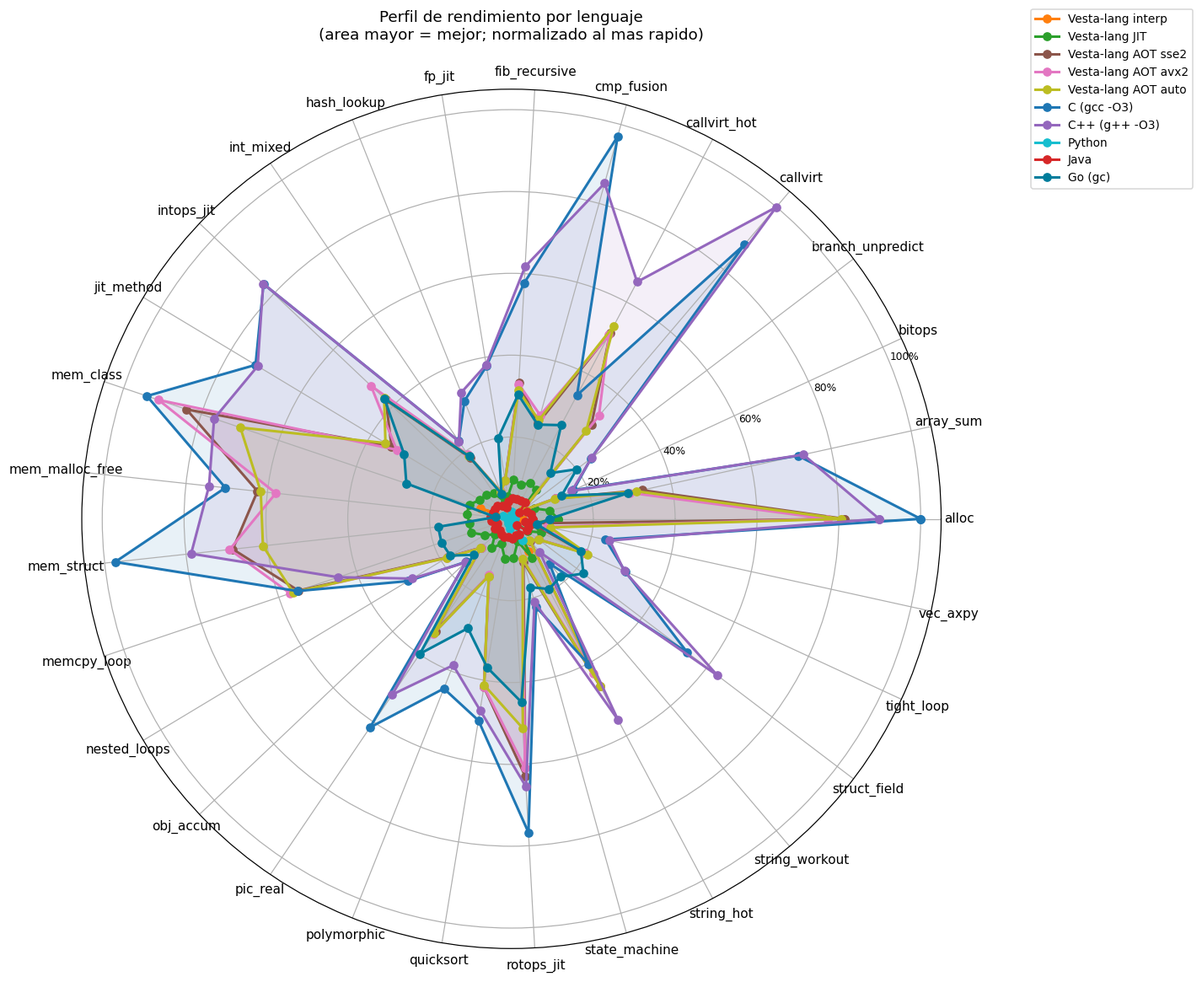
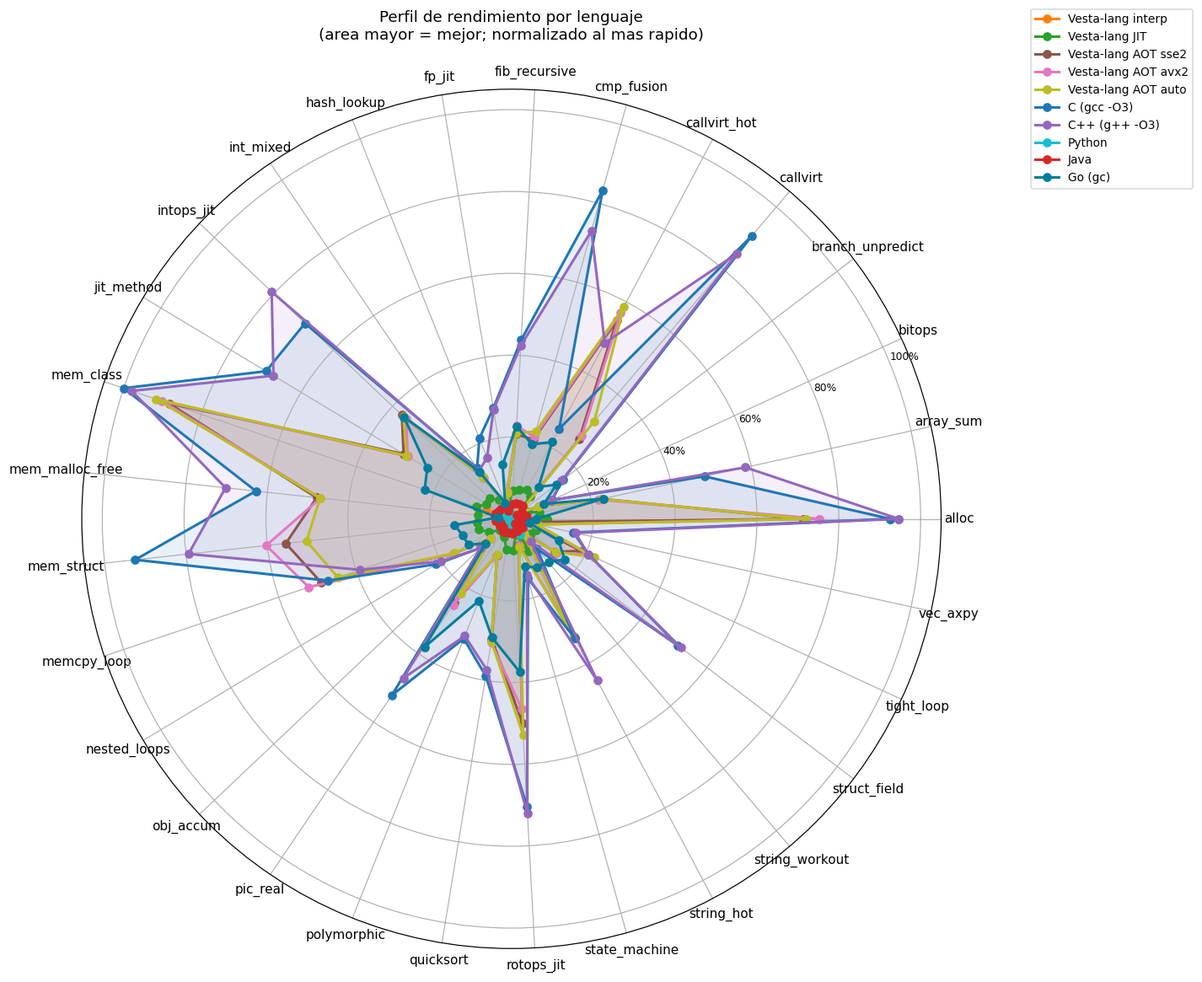
jit: auto-PGO gated (VESTA_JIT_PGO) VM-independiente + coste if-conversion multi-ISA
El JIT re-decide la if-conversion de las funciones calientes con el perfil de
branches MEDIDO en runtime, manteniendose VM-INDEPENDIENTE: la re-optimizacion
(if_conversion + select_simplify) solo lee ir::g_branch_profile (datos planos);
el unico acceso a la VM es un bridge del lado runtime (profile_apply_branch_lines)
que mapea PC->linea con el debug_info y alimenta ese almacen.

- ir::set_branch_profile_entry: punto de ingesta desacoplado (linea -> P), mismo
  almacen que load_branch_profile/predict_profile.
- runtime::profile_apply_branch_lines: bridge runtime->IR (agrega taken/nt por
  linea, P=min/total), sin round-trip a archivo.
- auto_jit: gate jit_pgo_enabled() (opt-in, default OFF por el coste del profiler
  D.6 en tier-0) + bloque de re-if-conversion sobre un clon en maybe_compile_method.
- main: VESTA_JIT_PGO=1 auto-activa el profiler (sin dump) desde el arranque para
  que tier-0 recolecte antes del tier-up.
- compiler_project: set_target_isa desde el arch del TARGET AOT antes de ir_optimize
  -> la decision SELECT vs branch usa el coste de la microarquitectura destino
  (x86_64 cmov ~2c / ARM64 csel ~1c / RISC-V sin cmov).

Validado: diff_harness 389 OK / 0 diverge / 0 crash con y sin VESTA_JIT_PGO=1;
e2e 724/0; benchmarks x86_64 mantienen la decision (branch_unpredict 4 cmov,
hash_lookup 0 cmov).

Changed region(s): [[0.0926, 0.1236, 0.7714, 0.8652]]

diff --git a/bench_plots/index.html b/bench_plots/index.html
@@ -33,7 +33,7 @@
     </style>
 </head><body>
 <h1>VestaVM Benchmark Report</h1>
-<p class="meta">Generado 2026-07-19 21:21:10 &middot; JSON: <code>F:\C\VM\bench_results.json</code></p>
+<p class="meta">Generado 2026-07-20 08:22:32 &middot; JSON: <code>F:\C\VM\bench_results.json</code></p>
 <h2>Sistema</h2>
 <dl class="sysinfo">
 <dt>CPU</dt><dd>13th Gen Intel(R) Core(TM) i7-13700KF (16 fisicos / 24 logicos @ 3400 MHz)</dd>
@@ -43,7 +43,7 @@
 </dl>
 <h2>Toolchains</h2>
 <dl class="sysinfo">
-<dt>Vesta-lang VM</dt><dd>Vesta v0.1.0-alpha (build 2026-07-19 21:19:00, 91d3668+)</dd>
+<dt>Vesta-lang VM</dt><dd>Vesta v0.1.0-alpha (build 2026-07-20 08:20:59, e81b3a4+)</dd>
 <dt>C (gcc)</dt><dd>gcc.EXE (tdm64-1) 10.3.0</dd>
 <dt>C++ (g++)</dt><dd>g++.EXE (tdm64-1) 10.3.0</dd>
 <dt>Python</dt><dd>Python 3.11.0</dd>
@@ -55,51 +55,51 @@
 <table>
 <thead><tr><th>Benchmark</th><th>Vesta-lang interp</th><th>Vesta-lang JIT</th><th>Vesta-lang AOT sse2</th><th>Vesta-lang AOT avx2</th><th>Vesta-lang AOT auto</th><th>C (gcc -O3)</th><th>C++ (g++ -O3)</th><th>Python (CPython)</th><th>Java (HotSpot)</th><th>Go (gc)</th></tr></thead>
 <tbody>
-<tr><td>alloc</td><td>170.5</td><td>41.9</td><td>5.9</td><td>6.2</td><td>5.9</td><td class="winner">4.8</td><td>5.3</td><td>625.7</td><td>92.4</td><td>51.7</td></tr>
-<tr><td>array_sum</td><td>1655.1</td><td>50.1</td><td>14.7</td><td>16.2</td><td>15.3</td><td>6.7</td><td class="winner">6.6</td><td>521.8</td><td>97.7</td><td>16.5</td></tr>
-<tr><td>bitops</td><td>3559.6</td><td>78.9</td><td>40.2</td><td>40.0</td><td>41.3</td><td class="winner">28.7</td><td>29.4</td><td>7679.1</td><td>117.5</td><td>35.5</td></tr>
-<tr><td>branch_unpredict</td><td>4351.5</td><td>172.4</td><td>136.7</td><td>140.8</td><td>139.6</td><td>19.6</td><td class="winner">19.5</td><td>3275.9</td><td>194.7</td><td>23.9</td></tr>
-<tr><td>callvirt</td><td>939.5</td><td>51.9</td><td>15.9</td><td>14.5</td><td>17.0</td><td>5.4</td><td class="winner">4.8</td><td>1960.5</td><td>91.7</td><td>32.6</td></tr>
-<tr><td>callvirt_hot</td><td>326.5</td><td>48.4</td><td>9.3</td><td>9.4</td><td>9.0</td><td>14.0</td><td class="winner">7.3</td><td>791.5</td><td>95.1</td><td>18.5</td></tr>
-<tr><td>cmp_fusion</td><td>739.6</td><td>55.1</td><td>19.7</td><td>18.2</td><td>19.1</td><td class="winner">4.9</td><td>5.6</td><td>2006.0</td><td>93.8</td><td>20.0</td></tr>
-<tr><td>fib_recursive</td><td>399.7</td><td>49.7</td><td>14.4</td><td>14.5</td><td>15.3</td><td>8.3</td><td class="winner">7.8</td><td>279.9</td><td>93.8</td><td>15.7</td></tr>
-<tr><td>fp_jit</td><td>765.5</td><td>86.5</td><td>50.3</td><td>50.7</td><td>50.6</td><td>12.7</td><td class="winner">12.6</td><td>1458.9</td><td>111.7</td><td>23.9</td></tr>
-<tr><td>hash_lookup</td><td>4472.9</td><td>105.1</td><td>67.2</td><td>66.9</td><td>67.7</td><td>15.4</td><td class="winner">14.4</td><td>7083.0</td><td>156.0</td><td>72.6</td></tr>
-<tr><td>int_mixed</td><td>3041.4</td><td>63.5</td><td>26.5</td><td>25.1</td><td>25.8</td><td class="winner">20.9</td><td>20.9</td><td>11579.3</td><td>121.3</td><td>26.0</td></tr>
-<tr><td>intops_jit</td><td>1671.4</td><td>55.8</td><td>11.3</td><td>10.1</td><td>11.2</td><td>5.7</td><td class="winner">5.7</td><td>1242.0</td><td>101.5</td><td>11.2</td></tr>
-<tr><td>jit_method</td><td>462.5</td><td>53.4</td><td>14.0</td><td>14.6</td><td>13.3</td><td class="winner">6.6</td><td>6.6</td><td>1336.6</td><td>103.4</td><td>15.7</td></tr>
-<tr><td>mem_class</td><td>59.4</td><td>44.1</td><td>5.7</td><td>5.3</td><td>6.9</td><td class="winner">5.1</td><td>6.2</td><td>217.0</td><td>100.8</td><td>17.7</td></tr>
-<tr><td>mem_malloc_free</td><td>721.4</td><td>43.6</td><td>7.7</td><td>8.3</td><td>7.8</td><td>6.8</td><td class="winner">6.4</td><td>657.8</td><td>95.0</td><td>122.8</td></tr>
-<tr><td>mem_struct</td><td>577.0</td><td>46.7</td><td>7.0</td><td>6.9</td><td>7.8</td><td class="winner">4.9</td><td>6.1</td><td>484.1</td><td>97.4</td><td>26.6</td></tr>
-<tr><td>memcpy_loop</td><td>1861.3</td><td>45.7</td><td>8.7</td><td class="winner">8.4</td><td>8.5</td><td>8.7</td><td>10.7</td><td>3889.8</td><td>130.2</td><td>26.5</td></tr>
-<tr><td>nested_loops</td><td>2276.5</td><td>62.6</td><td>26.4</td><td>25.9</td><td>25.8</td><td class="winner">16.2</td><td>16.9</td><td>1720.9</td><td>100.6</td><td>27.5</td></tr>
-<tr><td>obj_accum</td><td>4466.5</td><td>86.3</td><td>46.8</td><td>46.6</td><td>46.0</td><td>31.4</td><td class="winner">30.8</td><td>4589.1</td><td>123.0</td><td>37.4</td></tr>
-<tr><td>pic_real</td><td>541.3</td><td>55.6</td><td>14.5</td><td>14.1</td><td>14.2</td><td class="winner">7.8</td><td>9.2</td><td>351.9</td><td>107.0</td><td>12.0</td></tr>
-<tr><td>polymorphic</td><td>831.7</td><td>72.6</td><td>32.2</td><td>32.5</td><td>31.8</td><td class="winner">10.7</td><td>12.4</td><td>1143.5</td><td>102.5</td><td>16.7</td></tr>
-<tr><td>quicksort</td><td>309.3</td><td>48.4</td><td>11.5</td><td>11.5</td><td>11.6</td><td class="winner">9.6</td><td>10.1</td><td>192.3</td><td>105.4</td><td>13.0</td></tr>
-<tr><td>rotops_jit</td><td>1096.9</td><td>49.9</td><td>7.6</td><td>7.9</td><td>9.3</td><td class="winner">6.2</td><td>7.3</td><td>1509.6</td><td>100.8</td><td>10.7</td></tr>
-<tr><td>state_machine</td><td>3719.4</td><td>83.9</td><td>43.8</td><td>47.4</td><td>46.8</td><td class="winner">21.5</td><td>22.7</td><td>1733.5</td><td>113.1</td><td>27.7</td></tr>
-<tr><td>string_hot</td><td>54.0</td><td>44.3</td><td>10.4</td><td>11.2</td><td>10.4</td><td>11.9</td><td class="winner">8.6</td><td>80.0</td><td>112.3</td><td>24.7</td></tr>
-<tr><td>string_workout</td><td>4735.3</td><td>428.2</td><td>68.3</td><td>70.1</td><td>69.5</td><td>33.4</td><td>44.9</td><td>598.7</td><td>224.1</td><td class="winner">25.8</td></tr>
-<tr><td>struct_field</td><td>2277.4</td><td>96.3</td><td>56.8</td><td>56.9</td><td>56.9</td><td>8.9</td><td class="winner">7.6</td><td>5670.3</td><td>103.2</td><td>21.7</td></tr>
-<tr><td>tight_loop</td><td>2232.2</td><td>60.7</td><td>24.1</td><td>24.3</td><td>23.3</td><td class="winner">15.6</td><td>15.8</td><td>1166.2</td><td>105.2</td><td>25.6</td></tr>
-<tr><td>vec_axpy</td><td>25493.8</td><td>91.7</td><td>93.0</td><td>53.2</td><td>49.3</td><td>20.3</td><td class="winner">19.5</td><td>6579.6</td><td>141.5</td><td>74.4</td></tr>
+<tr><td>alloc</td><td>141.5</td><td>33.6</td><td>4.1</td><td>3.9</td><td>4.1</td><td>3.2</td><td class="winner">3.1</td><td>596.9</td><td>76.1</td><td>48.7</td></tr>
+<tr><td>array_sum</td><td>1526.8</td><td>41.7</td><td>13.0</td><td>13.4</td><td>13.0</td><td>6.1</td><td class="winner">5.0</td><td>471.0</td><td>80.5</td><td>12.8</td></tr>
+<tr><td>bitops</td><td>4054.4</td><td>68.6</td><td>40.7</td><td>38.9</td><td>40.6</td><td class="winner">26.8</td><td>27.3</td><td>7325.4</td><td>99.0</td><td>33.7</td></tr>
+<tr><td>branch_unpredict</td><td>4123.4</td><td>150.4</td><td>128.6</td><td>121.7</td><td>120.3</td><td class="winner">18.7</td><td>19.1</td><td>3065.1</td><td>177.3</td><td>21.3</td></tr>
+<tr><td>callvirt</td><td>776.9</td><td>40.7</td><td>11.5</td><td>11.1</td><td>9.4</td><td class="winner">3.2</td><td>3.5</td><td>1841.2</td><td>71.6</td><td>28.7</td></tr>
+<tr><td>callvirt_hot</td><td>313.6</td><td>36.6</td><td>5.4</td><td>5.2</td><td class="winner">5.0</td><td>11.8</td><td>6.0</td><td>749.7</td><td>73.4</td><td>13.8</td></tr>
+<tr><td>cmp_fusion</td><td>696.7</td><td>39.6</td><td>14.6</td><td>14.2</td><td>13.2</td><td class="winner">3.5</td><td>4.0</td><td>1888.2</td><td>75.0</td><td>15.6</td></tr>
+<tr><td>fib_recursive</td><td>358.5</td><td>42.9</td><td>14.2</td><td>12.9</td><td>14.1</td><td class="winner">6.7</td><td>6.9</td><td>254.5</td><td>79.2</td><td>13.0</td></tr>
+<tr><td>fp_jit</td><td>698.1</td><td>74.9</td><td>45.7</td><td>43.9</td><td>46.3</td><td class="winner">10.7</td><td>10.9</td><td>1372.3</td><td>95.3</td><td>21.9</td></tr>
+<tr><td>hash_lookup</td><td>4156.0</td><td>94.9</td><td>64.9</td><td>65.2</td><td>66.0</td><td class="winner">13.9</td><td>18.2</td><td>6666.9</td><td>139.8</td><td>69.8</td></tr>
+<tr><td>int_mixed</td><td>3170.1</td><td>52.9</td><td>23.9</td><td>24.1</td><td>23.9</td><td class="winner">19.6</td><td>20.8</td><td>10971.0</td><td>88.5</td><td>21.2</td></tr>
+<tr><td>intops_jit</td><td>1538.7</td><td>39.7</td><td>8.0</td><td>8.3</td><td>8.1</td><td>4.2</td><td class="winner">3.6</td><td>1116.2</td><td>81.7</td><td>8.1</td></tr>
+<tr><td>jit_method</td><td>433.2</td><td>41.7</td><td>9.6</td><td>9.9</td><td>9.8</td><td class="winner">4.2</td><td>4.3</td><td>1218.8</td><td>80.1</td><td>12.2</td></tr>
+<tr><td>mem_class</td><td>45.0</td><td>32.4</td><td>3.3</td><td>3.3</td><td>3.2</td><td class="winner">2.9</td><td>3.0</td><td>180.9</td><td>74.0</td><td>13.1</td></tr>
+<tr><td>mem_malloc_free</td><td>655.7</td><td>35.8</td><td>6.1</td><td>6.3</td><td>6.2</td><td>4.7</td><td class="winner">4.2</td><td>609.8</td><td>72.9</td><td>88.3</td></tr>
+<tr><td>mem_struct</td><td>534.0</td><td>34.4</td><td>5.3</td><td>4.9</td><td>5.8</td><td class="winner">3.2</td><td>3.7</td><td>444.8</td><td>76.0</td><td>21.0</td></tr>
+<tr><td>memcpy_loop</td><td>1750.9</td><td>35.3</td><td>6.0</td><td class="winner">5.6</td><td>6.6</td><td>6.2</td><td>7.5</td><td>3435.0</td><td>102.8</td><td>23.4</td></tr>
+<tr><td>nested_loops</td><td>1989.9</td><td>46.4</td><td>17.7</td><td>17.7</td><td>18.0</td><td class="winner">13.7</td><td>14.6</td><td>1617.4</td><td>87.5</td><td>23.9</td></tr>
+<tr><td>obj_accum</td><td>3745.2</td><td>73.4</td><td>42.4</td><td>41.8</td><td>42.4</td><td>28.4</td><td class="winner">28.4</td><td>4192.7</td><td>103.8</td><td>33.9</td></tr>
+<tr><td>pic_real</td><td>760.3</td><td>133.8</td><td>11.8</td><td>11.6</td><td>13.4</td><td class="winner">5.6</td><td>6.2</td><td>321.7</td><td>78.7</td><td>7.8</td></tr>
+<tr><td>polymorphic</td><td>726.1</td><td>61.4</td><td>30.8</td><td>30.6</td><td>30.9</td><td class="winner">9.3</td><td>9.5</td><td>1064.0</td><td>86.9</td><td>13.6</td></tr>
+<tr><td>quicksort</td><td>273.1</td><td>38.8</td><td>9.9</td><td>9.6</td><td>9.7</td><td class="winner">7.6</td><td>7.9</td><td>163.9</td><td>86.0</td><td>10.0</td></tr>
+<tr><td>rotops_jit</td><td>1029.6</td><td>38.3</td><td>5.9</td><td>6.3</td><td>5.6</td><td>4.2</td><td class="winner">4.1</td><td>1410.2</td><td>80.0</td><td>7.8</td></tr>
+<tr><td>state_machine</td><td>3388.1</td><td>72.7</td><td>43.9</td><td>43.4</td><td>41.5</td><td class="winner">19.4</td><td>20.6</td><td>1610.5</td><td>92.1</td><td>24.2</td></tr>
+<tr><td>string_hot</td><td>41.5</td><td>32.9</td><td>8.9</td><td>9.0</td><td>9.1</td><td>8.9</td><td class="winner">6.6</td><td>67.2</td><td>88.9</td><td>22.0</td></tr>
+<tr><td>string_workout</td><td>4089.1</td><td>362.7</td><td>63.3</td><td>61.8</td><td>63.3</td><td>30.3</td><td>40.4</td><td>539.0</td><td>195.6</td><td class="winner">21.1</td></tr>
+<tr><td>struct_field</td><td>1259.6</td><td>48.7</td><td>22.1</td><td>21.5</td><td>22.0</td><td>5.7</td><td class="winner">5.7</td><td>5316.7</td><td>84.8</td><td>18.0</td></tr>
+<tr><td>tight_loop</td><td>2000.3</td><td>44.2</td><td>15.7</td><td>14.2</td><td class="winner">13.2</td><td>14.1</td><td>14.2</td><td>1257.7</td><td>101.1</td><td>23.2</td></tr>
+<tr><td>vec_axpy</td><td>22864.2</td><td>78.2</td><td>78.5</td><td>47.1</td><td>45.2</td><td>18.9</td><td class="winner">18.3</td><td>6103.8</td><td>123.0</td><td>66.5</td></tr>
 </tbody></table>
 <h2>Geomean slowdown vs C por categoria</h2>
 <p class="meta">Verde &lt;1.5x &middot; Amarillo &lt;3x &middot; Rojo &ge;3x</p>
 <table>
 <thead><tr><th>Categoria</th><th>N</th><th>Vesta-lang interp</th><th>Vesta-lang JIT</th><th>Vesta-lang AOT sse2</th><th>Vesta-lang AOT avx2</th><th>Vesta-lang AOT auto</th><th>C++ (g++ -O3)</th><th>Python (CPython)</th><th>Java (HotSpot)</th><th>Go (gc)</th></tr></thead>
 <tbody>
-<tr><td>alloc</td><td>4</td><td class="cat-bad">47.65x</td><td class="cat-bad">8.23x</td><td class="cat-good">1.22x</td><td class="cat-good">1.23x</td><td class="cat-good">1.32x</td><td class="cat-good">1.12x</td><td class="cat-bad">85.25x</td><td class="cat-bad">18.01x</td><td class="cat-bad">7.77x</td></tr>
-<tr><td>bit</td><td>2</td><td class="cat-bad">147.72x</td><td class="cat-bad">4.69x</td><td class="cat-good">1.31x</td><td class="cat-good">1.33x</td><td class="cat-good">1.47x</td><td class="cat-good">1.10x</td><td class="cat-bad">254.53x</td><td class="cat-bad">8.13x</td><td class="cat-good">1.46x</td></tr>
-<tr><td>branch</td><td>3</td><td class="cat-bad">107.36x</td><td class="cat-bad">5.57x</td><td class="cat-mid">2.57x</td><td class="cat-mid">2.67x</td><td class="cat-mid">2.66x</td><td class="cat-good">1.03x</td><td class="cat-bad">64.63x</td><td class="cat-bad">8.31x</td><td class="cat-good">1.29x</td></tr>
-<tr><td>fp</td><td>1</td><td class="cat-bad">60.40x</td><td class="cat-bad">6.82x</td><td class="cat-bad">3.97x</td><td class="cat-bad">4.00x</td><td class="cat-bad">4.00x</td><td class="cat-good">0.99x</td><td class="cat-bad">115.11x</td><td class="cat-bad">8.81x</td><td class="cat-mid">1.89x</td></tr>
-<tr><td>hash</td><td>1</td><td class="cat-bad">289.63x</td><td class="cat-bad">6.80x</td><td class="cat-bad">4.35x</td><td class="cat-bad">4.33x</td><td class="cat-bad">4.39x</td><td class="cat-good">0.93x</td><td class="cat-bad">458.64x</td><td class="cat-bad">10.10x</td><td class="cat-bad">4.70x</td></tr>
-<tr><td>int</td><td>7</td><td class="cat-bad">123.23x</td><td class="cat-bad">5.87x</td><td class="cat-mid">1.91x</td><td class="cat-mid">1.86x</td><td class="cat-mid">1.88x</td><td class="cat-good">1.02x</td><td class="cat-bad">159.68x</td><td class="cat-bad">10.54x</td><td class="cat-mid">1.99x</td></tr>
-<tr><td>mem</td><td>2</td><td class="cat-bad">230.58x</td><td class="cat-bad">6.29x</td><td class="cat-good">1.49x</td><td class="cat-mid">1.53x</td><td class="cat-good">1.50x</td><td class="cat-good">1.10x</td><td class="cat-bad">187.16x</td><td class="cat-bad">14.82x</td><td class="cat-mid">2.75x</td></tr>
-<tr><td>misc</td><td>2</td><td class="cat-bad">422.00x</td><td class="cat-bad">3.52x</td><td class="cat-mid">2.61x</td><td class="cat-mid">1.97x</td><td class="cat-mid">1.88x</td><td class="cat-good">0.97x</td><td class="cat-bad">217.31x</td><td class="cat-bad">5.22x</td><td class="cat-mid">2.09x</td></tr>
-<tr><td>oop</td><td>5</td><td class="cat-bad">88.93x</td><td class="cat-bad">7.04x</td><td class="cat-mid">2.33x</td><td class="cat-mid">2.29x</td><td class="cat-mid">2.33x</td><td class="cat-good">0.88x</td><td class="cat-bad">144.32x</td><td class="cat-bad">11.18x</td><td class="cat-mid">2.15x</td></tr>
-<tr><td>string</td><td>2</td><td class="cat-bad">25.34x</td><td class="cat-bad">6.90x</td><td class="cat-good">1.33x</td><td class="cat-good">1.40x</td><td class="cat-good">1.35x</td><td class="cat-good">0.99x</td><td class="cat-bad">10.97x</td><td class="cat-bad">7.95x</td><td class="cat-good">1.26x</td></tr>
+<tr><td>alloc</td><td>4</td><td class="cat-bad">63.30x</td><td class="cat-bad">9.91x</td><td class="cat-good">1.34x</td><td class="cat-good">1.29x</td><td class="cat-good">1.36x</td><td class="cat-good">1.01x</td><td class="cat-bad">120.52x</td><td class="cat-bad">21.77x</td><td class="cat-bad">9.62x</td></tr>
+<tr><td>bit</td><td>2</td><td class="cat-bad">193.11x</td><td class="cat-bad">4.85x</td><td class="cat-good">1.46x</td><td class="cat-good">1.48x</td><td class="cat-good">1.42x</td><td class="cat-good">1.00x</td><td class="cat-bad">303.78x</td><td class="cat-bad">8.41x</td><td class="cat-mid">1.54x</td></tr>
+<tr><td>branch</td><td>3</td><td class="cat-bad">111.73x</td><td class="cat-bad">5.37x</td><td class="cat-mid">2.73x</td><td class="cat-mid">2.65x</td><td class="cat-mid">2.60x</td><td class="cat-good">1.04x</td><td class="cat-bad">66.63x</td><td class="cat-bad">8.01x</td><td class="cat-good">1.23x</td></tr>
+<tr><td>fp</td><td>1</td><td class="cat-bad">65.11x</td><td class="cat-bad">6.99x</td><td class="cat-bad">4.27x</td><td class="cat-bad">4.09x</td><td class="cat-bad">4.32x</td><td class="cat-good">1.01x</td><td class="cat-bad">127.99x</td><td class="cat-bad">8.89x</td><td class="cat-mid">2.04x</td></tr>
+<tr><td>hash</td><td>1</td><td class="cat-bad">299.18x</td><td class="cat-bad">6.83x</td><td class="cat-bad">4.67x</td><td class="cat-bad">4.69x</td><td class="cat-bad">4.75x</td><td class="cat-good">1.31x</td><td class="cat-bad">479.93x</td><td class="cat-bad">10.06x</td><td class="cat-bad">5.03x</td></tr>
+<tr><td>int</td><td>7</td><td class="cat-bad">144.52x</td><td class="cat-bad">5.68x</td><td class="cat-mid">1.82x</td><td class="cat-mid">1.78x</td><td class="cat-mid">1.76x</td><td class="cat-good">1.02x</td><td class="cat-bad">190.61x</td><td class="cat-bad">10.97x</td><td class="cat-mid">2.04x</td></tr>
+<tr><td>mem</td><td>2</td><td class="cat-bad">265.89x</td><td class="cat-bad">6.24x</td><td class="cat-good">1.44x</td><td class="cat-good">1.41x</td><td class="cat-mid">1.50x</td><td class="cat-good">1.00x</td><td class="cat-bad">206.85x</td><td class="cat-bad">14.80x</td><td class="cat-mid">2.81x</td></tr>
+<tr><td>misc</td><td>2</td><td class="cat-bad">398.71x</td><td class="cat-bad">3.26x</td><td class="cat-mid">2.48x</td><td class="cat-mid">1.91x</td><td class="cat-mid">1.88x</td><td class="cat-good">0.98x</td><td class="cat-bad">217.97x</td><td class="cat-bad">4.87x</td><td class="cat-mid">2.05x</td></tr>
+<tr><td>oop</td><td>5</td><td class="cat-bad">107.94x</td><td class="cat-bad">8.76x</td><td class="cat-mid">2.12x</td><td class="cat-mid">2.07x</td><td class="cat-mid">2.06x</td><td class="cat-good">0.91x</td><td class="cat-bad">185.09x</td><td class="cat-bad">12.14x</td><td class="cat-mid">2.31x</td></tr>
+<tr><td>string</td><td>2</td><td class="cat-bad">25.10x</td><td class="cat-bad">6.65x</td><td class="cat-good">1.45x</td><td class="cat-good">1.44x</td><td class="cat-good">1.46x</td><td class="cat-good">0.99x</td><td class="cat-bad">11.59x</td><td class="cat-bad">8.03x</td><td class="cat-good">1.31x</td></tr>
 </tbody></table>
 <h2>Graficas</h2>
 <div class="grid-plots">

diff --git a/src/jit/auto_jit.cpp b/src/jit/auto_jit.cpp
@@ -27,6 +27,11 @@
 #include "loader/loader.h"
 #include "loader/oop_types.h"
 #include "ir/ir_optimizer.h" // C2.4: devirt especulativa + inline
+#include "ir/passes/if_conversion.h"  // auto-PGO del JIT: re-if-conversion
+#include "ir/passes/select_simplify.h"
+#include "ir/passes/select_policy.h"
+#include "runtime/profile.h"           // bridge runtime->IR del perfil medido
+#include "debug/debug_info.h"          // PC -> linea fuente
 #include "runtime/proceso_runtime.h"
 #include "runtime/runtime.h"
 #include "runtime/scheduler.h"
@@ -207,6 +212,25 @@ bool osr_opt_enabled() {
     static const bool on = [] {
         const char *v = std::getenv("VESTA_OSR_OPT");
         return !(v && v[0] == '0'); // default ON; solo "0" lo apaga
+    }();
+    return on;
+}
+
+/** @brief Gate del auto-PGO del JIT (opt-in VESTA_JIT_PGO=1, default OFF).
+ *
+ *  Cuando esta activo, el JIT re-decide la if-conversion de cada funcion
+ *  caliente con el perfil de branches MEDIDO en tiempo de ejecucion (contadores
+ *  del profiler D.6 mapeados a linea fuente).  El JIT permanece
+ *  VM-INDEPENDIENTE: la re-optimizacion (if_conversion/select_simplify) solo lee
+ *  @c ir::g_branch_profile (datos planos); el UNICO acceso a la VM es el bridge
+ *  @c profile_apply_branch_lines, invocado desde el glue (que si tiene la VM).
+ *
+ *  Es opt-in porque activar el profiler D.6 (mutex por branch) en tier-0 tiene
+ *  coste; el default lo deja apagado (cero overhead/riesgo).  Cacheado. */
+bool jit_pgo_enabled() {
+    static const bool on = [] {
+        const char *v = std::getenv("VESTA_JIT_PGO");
+        return v && v[0] == '1';
     }();
     return on;
 }
@@ -937,13 +961,47 @@ void maybe_compile_method(runtime::ProcessVM *vm,
         };
     }
 
+    /* Auto-PGO del JIT (opt-in VESTA_JIT_PGO): re-decide la if-conversion de
+     * esta funcion caliente con el perfil de branches MEDIDO en runtime.  El
+     * JIT sigue VM-independiente: la re-optimizacion solo lee ir::g_branch_
+     * profile (datos planos); el UNICO acceso a la VM es el bridge que mapea
+     * PC->linea con el debug_info (aqui, en el glue que si tiene la VM). */
+    ir::IrFunction pgo_clone;
+    const ir::IrFunction *compile_ir = ir_fn;
+    if (jit_pgo_enabled() &&
+        runtime::profile::g_profile.active.load(std::memory_order_relaxed)) {
+        /* Bridge runtime->IR: vuelca los contadores por PC al almacen por-linea
+         * que consume la if-conversion.  pc_to_line via debug_info. */
+        runtime::profile::profile_apply_branch_lines([&](uint64_t pc) -> uint32_t {
+            for (const auto &exe : owning_vm.loader_public.executables) {
+                if (!exe || !exe->debug_info) continue;
+                auto info =
+                    exe->debug_info->lookup_line(static_cast<uint32_t>(pc));
+                if (info.found && info.line > 0) return info.line;
+            }
+            return 0;
+        });
+        /* Re-optimizacion VM-free sobre un clon: if-conversion (con predict_
+         * profile ahora dominante) + canonicalizacion de SELECT. */
+        pgo_clone = *ir_fn;
+        bool any = ir::ir_pass_if_conversion(pgo_clone);
+        any = ir::ir_pass_select_simplify(pgo_clone) || any;
+        if (any) {
+            compile_ir = &pgo_clone;
+            if (g_jit_warn_unsupported)
+                std::fprintf(stderr,
+                             "[jit-pgo] '%s' re-if-convertida con perfil medido\n",
+                             key.c_str());
+        }
+    }
+
     /* Phase D.7 (opt-in): intento vreg con el resolver recursivo + native
      * resolver ya construidos (mc_opts) -> los CALL a otras funciones Vesta se
      * resuelven/compilan por vreg en vez de bailar a slots.  Si la funcion no
      * es del subset vreg, cae al compile_with_opts (slots) de abajo. */
     if (g_jit_use_vregs) {
         uint8_t *vcode = vreg_compile(
-            *ir_fn, *g_code_cache, mc_opts.resolve_user_fn, make_vreg_entries(),
+            *compile_ir, *g_code_cache, mc_opts.resolve_user_fn, make_vreg_entries(),
             mc_opts.resolve_native_fn, mc_sym_res);
         if (vcode != nullptr) {
             method->jit_code = reinterpret_cast<void *>(vcode);

diff --git a/src/runtime/profile.cpp b/src/runtime/profile.cpp
@@ -11,6 +11,7 @@
 
 #include "runtime/profile.h"
 
+#include "ir/passes/select_policy.h"
 #include "loader/oop_types.h"
 
 #include <atomic>
@@ -215,6 +216,36 @@ int profile_write_branch_lines(
     }
     std::fprintf(stderr, "[profile] perfil de branches por linea: %s (%d lineas)\n",
                  path.c_str(), n);
+    return n;
+}
+
+int profile_apply_branch_lines(
+    const std::function<uint32_t(uint64_t)> &pc_to_line) {
+    // Agregar taken/not_taken por linea fuente (igual que la variante a
+    // archivo, pero alimentando directo el almacen de la if-conversion).
+    std::unordered_map<uint32_t, std::pair<uint64_t, uint64_t>> by_line;
+    {
+        std::lock_guard<std::mutex> lk(g_profile.collector_mtx);
+        for (const auto &kv : g_profile.branches) {
+            const uint32_t line = pc_to_line(kv.first);
+            if (line == 0) continue; // sin linea -> se descarta
+            auto &e = by_line[line];
+            e.first += kv.second.taken.load(std::memory_order_relaxed);
+            e.second += kv.second.not_taken.load(std::memory_order_relaxed);
+        }
+    }
+    int n = 0;
+    for (const auto &kv : by_line) {
+        const uint64_t taken = kv.second.first;
+        const uint64_t nt = kv.second.second;
+        const uint64_t total = taken + nt;
+        if (total == 0) continue;
+        // P(mispredict) = fraccion de la rama minoritaria.
+        const uint64_t minor = taken < nt ? taken : nt;
+        const double p = static_cast<double>(minor) / static_cast<double>(total);
+        ir::set_branch_profile_entry(kv.first, p);
+        ++n;
+    }
     return n;
 }
 

diff --git a/src/vx/compiler_project.cpp b/src/vx/compiler_project.cpp
@@ -33,6 +33,7 @@
 
 #include "ir/ir_emitter.h"
 #include "ir/ir_optimizer.h"
+#include "ir/passes/select_policy.h"
 #include "ir/ssa_ir.h"
 #include "ir/ssa_ir_serialize.h"
 #include "vx/lexer.h"
@@ -2635,6 +2636,22 @@ CompileResult compile_vx_project(
     //    dependeria del optimizador (`return this.swap(v)` es parcial O(1), no
     //    O(n) por el bucle de swap inyectado).  El coste TOTAL lo compone el
     //    analizador via el callgraph.  Fuera de --analyze, inline normal.
+    // Multi-ISA: la rentabilidad de la if-conversion (SELECT vs branch) depende
+    // de la microarquitectura destino (cmov ~2c x86, csel ~1c ARM64, sin cmov
+    // nativo en RISC-V).  Ajustamos el modelo de coste al arch del TARGET activo
+    // antes de optimizar; asi la decision horneada en el IR corresponde a la ISA
+    // para la que se compila (host x86_64 por defecto).
+    {
+        std::string tisa_os, tisa_arch;
+        vx::get_aot_condcomp_target(tisa_os, tisa_arch);
+        if (tisa_arch == "arm64" || tisa_arch == "aarch64")
+            ir::set_target_isa(ir::TargetIsa::ARM64);
+        else if (tisa_arch == "riscv" || tisa_arch == "riscv64")
+            ir::set_target_isa(ir::TargetIsa::RISCV);
+        else
+            ir::set_target_isa(ir::TargetIsa::X86_64);
+    }
+
     ir::ir_optimize(merged, opt_level_from_int_(opts.opt_level),
                     /*allow_inline=*/!opts.emit_ir_preopt);
 

diff --git a/include/runtime/profile.h b/include/runtime/profile.h
@@ -215,6 +215,22 @@ int profile_write_branch_lines(const std::string &path,
                                const std::function<uint32_t(uint64_t)> &pc_to_line);
 
 /**
+ * @brief Bridge desacoplado runtime -> IR: vuelca el perfil de branches medido
+ *        (contadores por PC) al almacen por-linea que consume la if-conversion
+ *        (@c ir::set_branch_profile_entry), SIN pasar por un archivo.
+ *
+ * Es la pieza que mantiene al JIT VM-INDEPENDIENTE: el JIT (if-conversion +
+ * politica de SELECT) solo lee @c ir::g_branch_profile (datos planos, sin tipos
+ * de la VM); este bridge, del lado runtime, es el UNICO que toca @c debug_info
+ * (via @p pc_to_line) para alimentarlo.  Asi el auto-PGO no acopla el JIT a la
+ * VM.  P(mispredict) = min(taken,nt)/(taken+nt) por linea agregada.
+ *
+ * @param pc_to_line Callback PC (VM) -> linea fuente (0 si desconocida).
+ * @return numero de lineas volcadas al almacen de la if-conversion.
+ */
+int profile_apply_branch_lines(const std::function<uint32_t(uint64_t)> &pc_to_line);
+
+/**
  * @brief Registra el resultado de un branch condicional.
  *
  * Llamado desde @c exec_instr_jmp (cuando cond != 0x0F que es

diff --git a/include/ir/passes/select_policy.h b/include/ir/passes/select_policy.h
@@ -119,6 +119,15 @@ void set_target_cost_model(double cmov_latency, double mispredict_penalty);
  */
 int load_branch_profile(const char *path);
 
+/**
+ * @brief Inserta/actualiza una entrada del perfil de branches por linea (mismo
+ *        almacen que @c load_branch_profile / @c predict_profile).  Lo usa el
+ *        auto-PGO del JIT: al recompilar una funcion caliente, vuelca el perfil
+ *        de runtime (contadores del profiler mapeados a linea via debug_info) a
+ *        este almacen para que la if-conversion re-decida con datos medidos.
+ */
+void set_branch_profile_entry(uint32_t source_line, double p_mispredict);
+
 } // namespace ir
 
 #endif // IR_PASSES_SELECT_POLICY_H

diff --git a/main.cpp b/main.cpp
@@ -1065,6 +1065,12 @@ int main(int argc, char *argv[]) {
         }
         if (!profile_path.empty()) {
             runtime::profile::profile_init(profile_path);
+        } else if (const char *pgo = std::getenv("VESTA_JIT_PGO");
+                   pgo && pgo[0] == '1') {
+            /* Auto-PGO del JIT: activa el profiler (sin path -> sin dump) desde
+             * el arranque para que tier-0 recolecte branches ANTES de que el
+             * JIT recompile las funciones calientes con el perfil medido. */
+            runtime::profile::profile_init("");
         }
     }
     const bool jit_stats_requested = result.count("jit-stats") > 0;

diff --git a/src/ir/passes/select_policy.cpp b/src/ir/passes/select_policy.cpp
@@ -412,6 +412,13 @@ void set_target_cost_model(double cmov_latency, double mispredict_penalty) {
     if (mispredict_penalty > 0.0) g_mispredict_penalty = mispredict_penalty;
 }
 
+void set_branch_profile_entry(uint32_t source_line, double p_mispredict) {
+    if (source_line == 0) return;
+    if (p_mispredict < 0.0) p_mispredict = 0.0;
+    if (p_mispredict > 1.0) p_mispredict = 1.0;
+    g_branch_profile[source_line] = p_mispredict;
+}
+
 int load_branch_profile(const char *path) {
     if (!path) return 0;
     std::FILE *f = std::fopen(path, "r");
